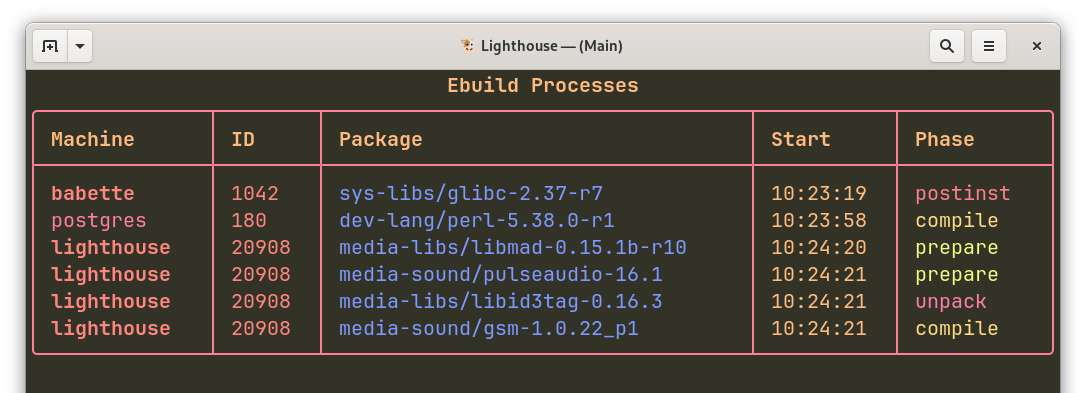
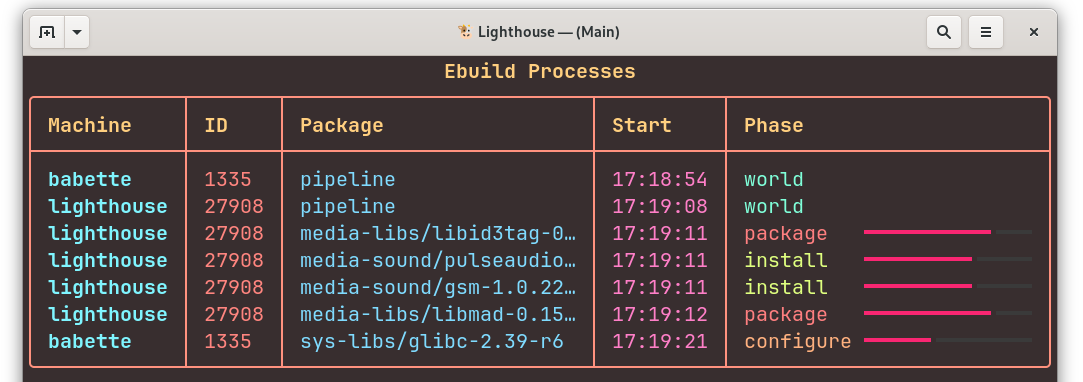
cli: add --progress flag
When the --progress flag is passed to the `ps` subcommand, ebuild phases
will be shown with a progress bar that indicates how far along in the
phases it the ebuild has progressed.

diff --git a/tests/test_cli.py b/tests/test_cli.py
@@ -94,7 +94,9 @@ class PSTests(TestCase):
             ["net-misc/wget-1.21.4", "compile", t(2023, 11, 15, 16, 20, 2)],
         ]:
             make_build_process(package=cpv, phase=phase, start_time=start_time)
-        args = Namespace(url="http://gbp.invalid/", node=False, continuous=False)
+        args = Namespace(
+            url="http://gbp.invalid/", node=False, continuous=False, progress=False
+        )
         console, stdout = string_console()[:2]
 
         exit_status = ps.handler(args, self.gbp, console)
@@ -113,6 +115,36 @@ class PSTests(TestCase):
         self.assertEqual(stdout.getvalue(), expected)
 
     @mock.patch("gbpcli.render.LOCAL_TIMEZONE", new=LOCAL_TIMEZONE)
+    @mock.patch("gbp_ps.cli.ps.get_today", new=lambda: dt.date(2024, 8, 16))
+    def test_with_progress(self) -> None:
+        t = dt.datetime
+        for cpv, phase, start_time in [
+            ["pipeline", "world", t(2024, 8, 16, 16, 20, 1)],
+            ["sys-apps/shadow-4.14-r4", "package", t(2024, 8, 16, 16, 20, 1)],
+            ["net-misc/wget-1.21.4", "compile", t(2024, 8, 16, 16, 20, 2)],
+        ]:
+            make_build_process(package=cpv, phase=phase, start_time=start_time)
+        args = Namespace(
+            url="http://gbp.invalid/", node=False, continuous=False, progress=True
+        )
+        console, stdout = string_console()[:2]
+
+        exit_status = ps.handler(args, self.gbp, console)
+
+        self.assertEqual(exit_status, 0)
+        expected = """\
+                                    Ebuild Processes                                    
+╭─────────┬──────┬─────────────────────────┬──────────┬────────────────────────────────╮
+│ Machine │ ID   │ Package                 │ Start    │ Phase                          │
+├─────────┼──────┼─────────────────────────┼──────────┼────────────────────────────────┤
+│ babette │ 1031 │ pipeline                │ 14:20:01 │ world                          │
+│ babette │ 1031 │ sys-apps/shadow-4.14-r4 │ 14:20:01 │ package   ━━━━━━━━━━━━━━━      │
+│ babette │ 1031 │ net-misc/wget-1.21.4    │ 14:20:02 │ compile   ━━━━━━━━━━           │
+╰─────────┴──────┴─────────────────────────┴──────────┴────────────────────────────────╯
+"""
+        self.assertEqual(stdout.getvalue(), expected)
+
+    @mock.patch("gbpcli.render.LOCAL_TIMEZONE", new=LOCAL_TIMEZONE)
     @mock.patch("gbp_ps.cli.ps.get_today", new=lambda: dt.date(2023, 11, 15))
     def test_with_node(self) -> None:
         t = dt.datetime
@@ -122,7 +154,9 @@ class PSTests(TestCase):
             ["net-misc/wget-1.21.4", "compile", t(2023, 11, 15, 16, 20, 2)],
         ]:
             make_build_process(package=cpv, phase=phase, start_time=start_time)
-        args = Namespace(url="http://gbp.invalid/", node=True, continuous=False)
+        args = Namespace(
+            url="http://gbp.invalid/", node=True, continuous=False, progress=False
+        )
         console, stdout = string_console()[:2]
         exit_status = ps.handler(args, self.gbp, console)
 
@@ -146,7 +180,9 @@ class PSTests(TestCase):
         package = "sys-apps/portage-3.0.51"
         build_host = "jenkins"
         orig_start = t(2023, 11, 15, 16, 20, 0)
-        args = Namespace(url="http://gbp.invalid/", node=True, continuous=False)
+        args = Namespace(
+            url="http://gbp.invalid/", node=True, continuous=False, progress=False
+        )
         update = partial(
             make_build_process,
             machine=machine,
@@ -203,7 +239,9 @@ class PSTests(TestCase):
         )
 
     def test_empty(self) -> None:
-        args = Namespace(url="http://gbp.invalid/", node=False, continuous=False)
+        args = Namespace(
+            url="http://gbp.invalid/", node=False, continuous=False, progress=False
+        )
         console, stdout = string_console()[:2]
         exit_status = ps.handler(args, self.gbp, console)
 
@@ -223,7 +261,11 @@ class PSTests(TestCase):
             ]
         ]
         args = Namespace(
-            url="http://gbp.invalid/", node=False, continuous=True, update_interval=4
+            url="http://gbp.invalid/",
+            node=False,
+            continuous=True,
+            update_interval=4,
+            progress=False,
         )
         console, stdout = string_console()[:2]
 
@@ -279,6 +321,7 @@ class AddProcessTests(TestCase):
             package=process.package,
             phase=process.phase,
             url="http://gbp.invalid/",
+            progress=False,
         )
         exit_status = add_process.handler(args, self.gbp, console)
 

diff --git a/src/gbp_ps/cli/ps.py b/src/gbp_ps/cli/ps.py
@@ -10,10 +10,16 @@ from gbpcli.graphql import Query, check
 from gbpcli.types import Console
 from rich import box
 from rich.live import Live
+from rich.progress import BarColumn, Progress, TextColumn
 from rich.table import Table
+
+from gbp_ps.types import BuildProcess
 
 ModeHandler = Callable[[argparse.Namespace, Query, Console], int]
 ProcessList: TypeAlias = list[dict[str, Any]]
+
+BUILD_PHASE_COUNT = len(BuildProcess.build_phases)
+PHASE_PADDING = max(len(i) for i in BuildProcess.build_phases)
 
 
 def handler(args: argparse.Namespace, gbp: GBP, console: Console) -> int:
@@ -41,6 +47,13 @@ def parse_args(parser: argparse.ArgumentParser) -> None:
         type=float,
         default=1,
         help="In continuous mode, the interval, in seconds, between updates",
+    )
+    parser.add_argument(
+        "--progress",
+        "-p",
+        action="store_true",
+        default=False,
+        help="Display progress bars for package phase",
     )
 
 
@@ -96,7 +109,6 @@ def create_table(processes: ProcessList, args: argparse.Namespace) -> Table:
         table.add_column("Node", header_style="header")
 
     for process in processes:
-        phase = process["phase"]
         row = [
             render.format_machine(process["machine"], args),
             render.format_build_number(process["id"]),
@@ -106,13 +118,38 @@ def create_table(processes: ProcessList, args: argparse.Namespace) -> Table:
                     render.LOCAL_TIMEZONE
                 )
             ),
-            f"[{phase}_phase]{phase:9}[/{phase}_phase]",
+            phase_column(process["phase"], args),
         ]
         if args.node:
             row.append(f"[build_host]{process['buildHost']}[/build_host]")
         table.add_row(*row)
 
     return table
+
+
+def phase_column(phase: str, args: argparse.Namespace) -> str | Progress:
+    """Return the ebuild phase rendered for the process table column
+
+    This will be the text of the ebuild phase and a progress bar depending on the
+    args.progress flag and whether the phase is an ebuild build phase.
+    """
+    if not args.progress or phase not in BuildProcess.build_phases:
+        return f"[{phase}_phase]{phase:{PHASE_PADDING}}[/{phase}_phase]"
+
+    return phase_progress(phase)
+
+
+def phase_progress(phase: str) -> Progress:
+    """Render the phase as a Progress bar"""
+    position = BuildProcess.build_phases.index(phase) + 1
+    progress = Progress(
+        TextColumn(f"[{phase}_phase]{phase:{PHASE_PADDING}}[/{phase}_phase]"),
+        BarColumn(),
+    )
+    task = progress.add_task(phase, total=BUILD_PHASE_COUNT)
+    progress.update(task, advance=position)
+
+    return progress
 
 
 def get_today() -> dt.date:

diff --git a/src/gbp_ps/types.py b/src/gbp_ps/types.py
@@ -21,6 +21,22 @@ class BuildProcess:
     # BuildProcesses in any of these phases are considered "final"
     final_phases = {"", "clean", "cleanrm", "postrm"}
 
+    # Build phases, in order (best as I can determine)
+    build_phases = (
+        "pretend",
+        "setup",
+        "unpack",
+        "prepare",
+        "configure",
+        "compile",
+        "test",
+        "install",
+        "package",
+        "instprep",
+        "preinst",
+        "postinst",
+    )
+
     def is_same_as(self, other: BuildProcess) -> bool:
         """Return true if the other build process is the same process
 
